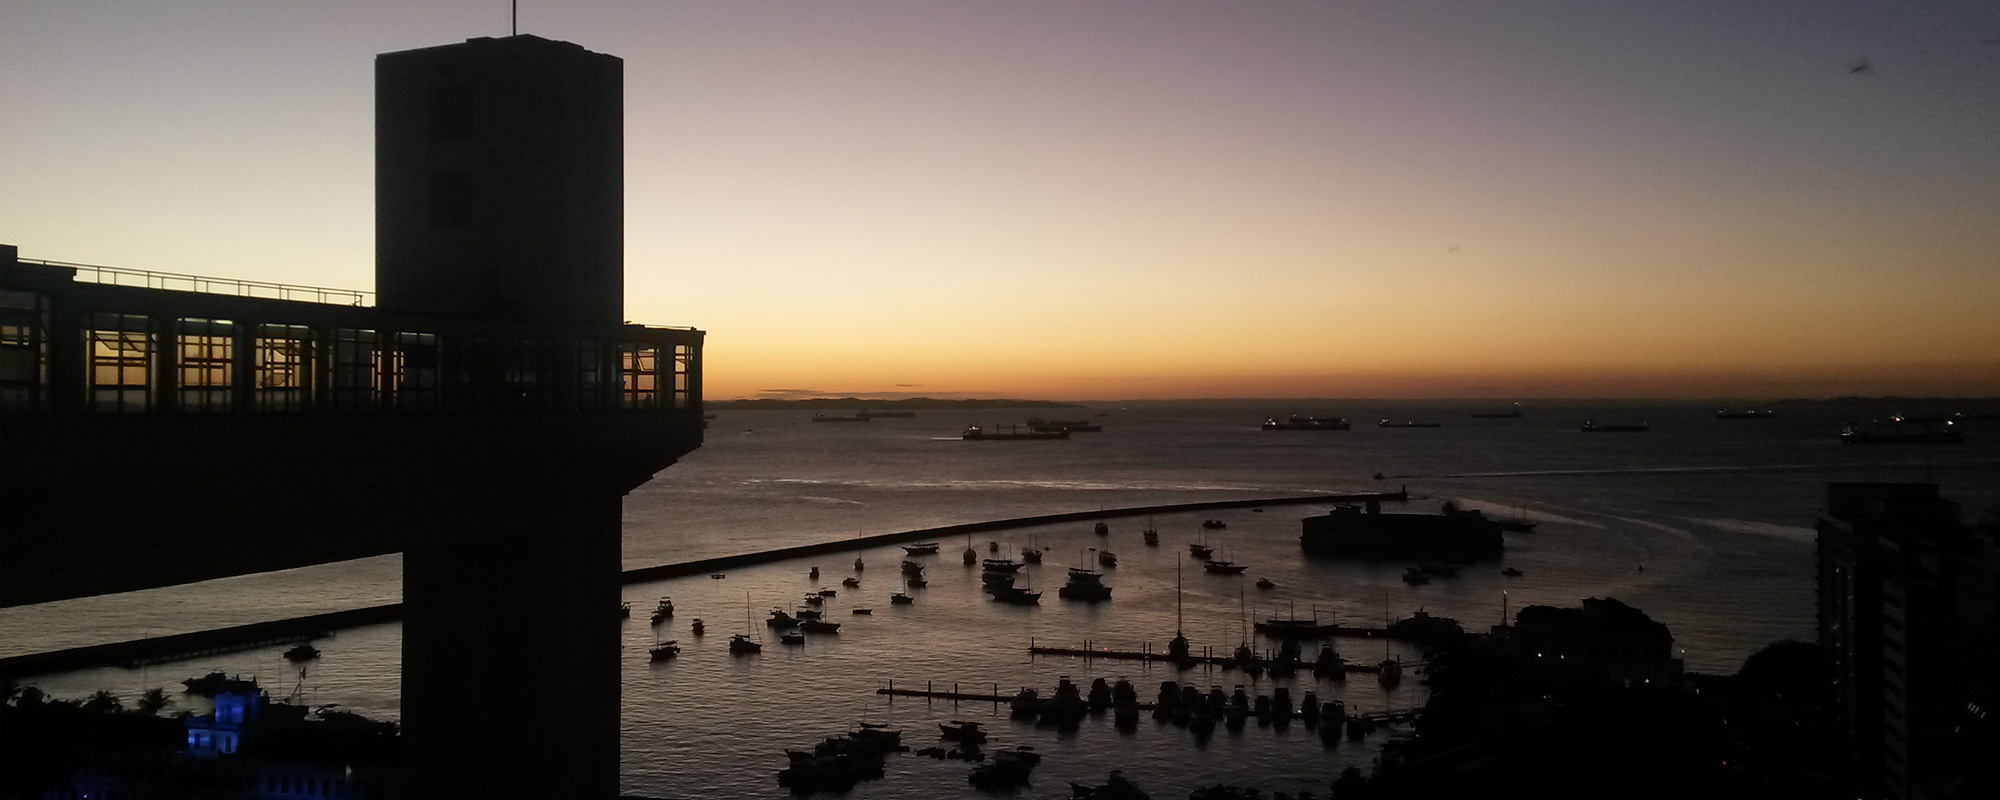
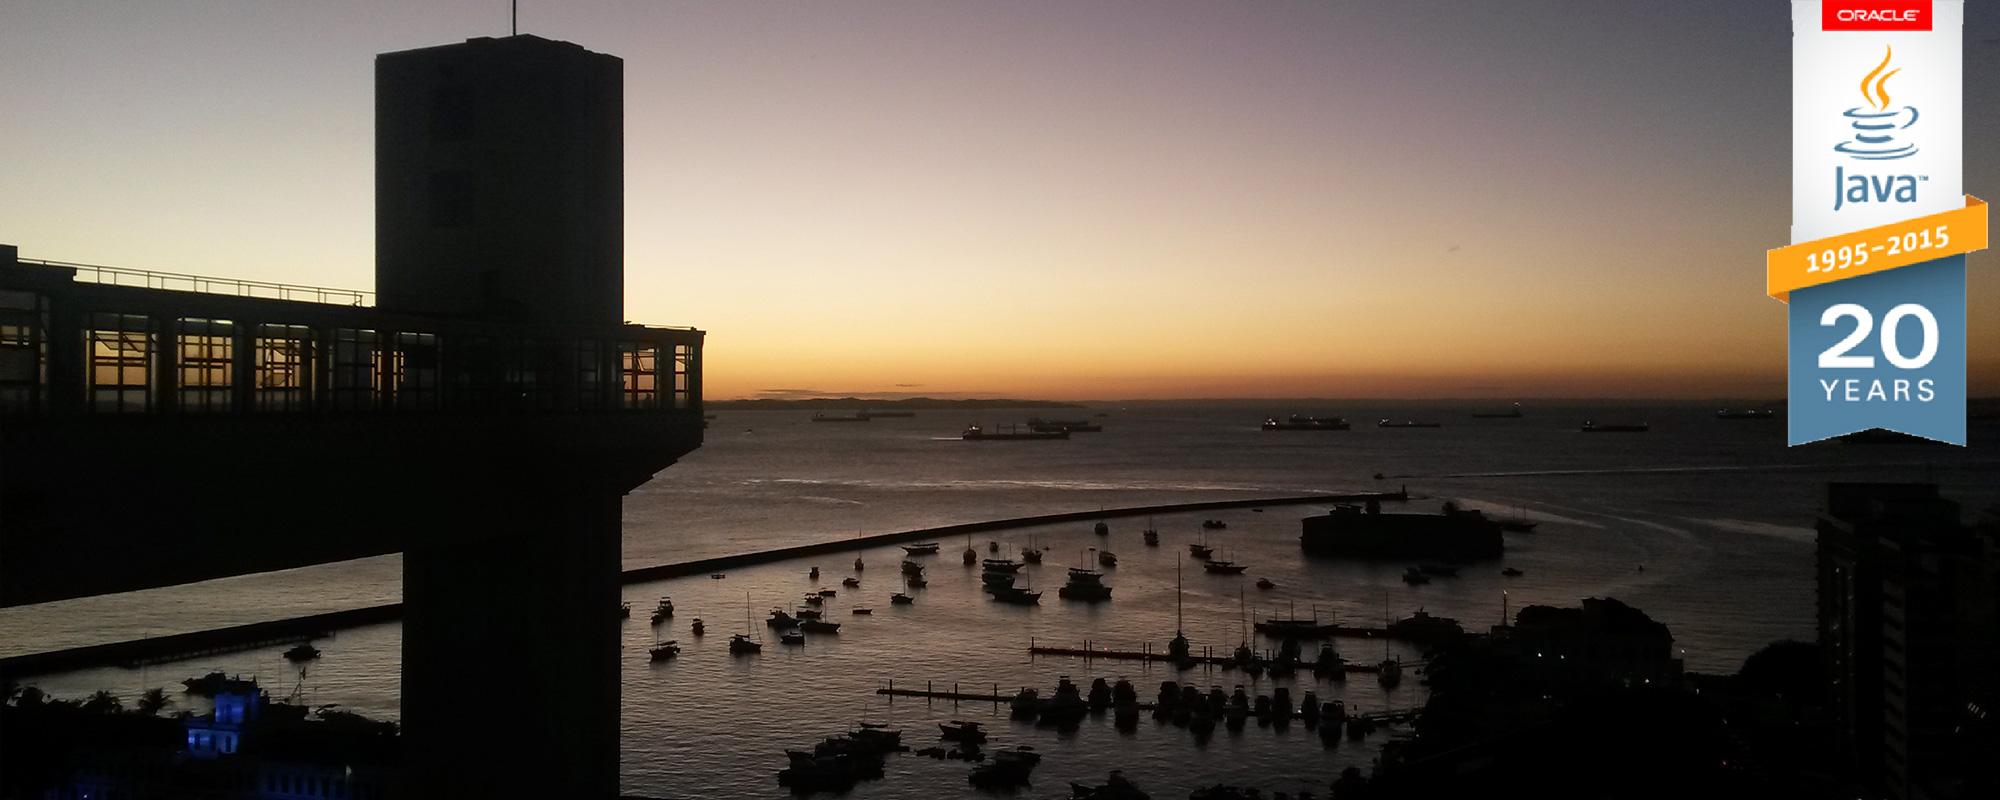
mudanças em textos e imagens
mudanças em textos e imagens

Changed region(s): [[0.868, 0.0, 1.0, 0.5625]]

diff --git a/docpad.js b/docpad.js
@@ -21,15 +21,15 @@ module.exports = {
     // The Call To Action button at the header,
     // If you don't want this, just remove the callToAction property.
     callToAction: {
-      text: "Increva-se!",
-      link: "http://even.tc/jug-tour-brasil-2015-edicao-sa"
+      text: "Inscreva-se!",
+      link: "http://even.tc/jugtourbrasil2015edssa"
     },
 
     // Site info
     site: {
       theme: "yellow-swan",
       url: "http://javaTour2015.github.io/javaTour2015/",
-      googleanalytics: "UA-33656081-1"
+      googleanalytics: "UA-2890985-10"
     },
 
     // Active sections on the website
